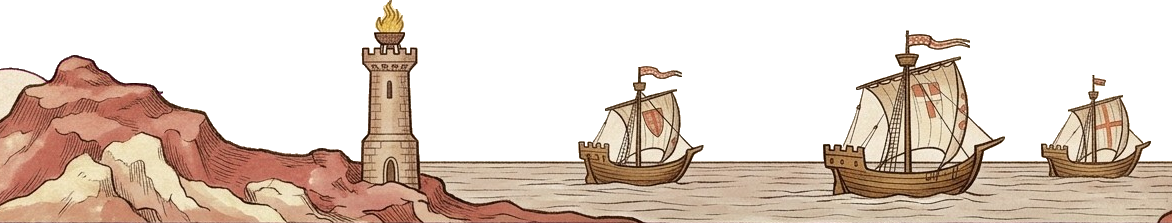
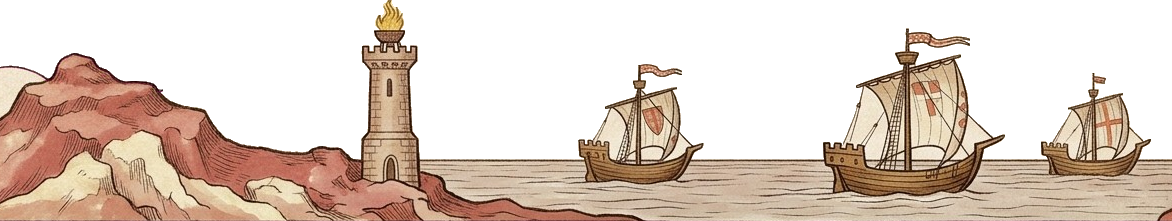
Festivals: no holes (sea under the far layer, deep valleys filled), cleaner tents, sunset glow; suns with faces in the day skies

diff --git a/scenes.js b/scenes.js
@@ -54,6 +54,10 @@ function cloud(file, w, y, dur, phase, extra){
   return Object.assign({ id:'cloud', file:file, frames:1, fps:1, w:w, x:0, y:y,
     plane:'sky', move:'walk', dur:dur, phase:phase }, extra || {});
 }
+/* a golden sun with a face, behind all layers (it is the same picture as the research star) */
+function sun(x, y, w){
+  return { id:'sun', file:'research/star.png', frames:1, fps:1, w:w, x:x, y:y, plane:'bg', move:'bob', dur:8 };
+}
 function star(x, y, w, dur, phase){
   return { id:'star', file:'research/star.png', frames:1, fps:1, w:w, x:x, y:y,
     plane:'sky', move:'twinkle', dur:dur, phase:phase };
@@ -96,7 +100,8 @@ const SCENES = {
       cloud('home/cloud-a.png', 190, 80, 170, .05), cloud('home/cloud-b.png', 130, 68, 210, .22),
       cloud('home/cloud-c.png', 170, 88, 160, .38), cloud('home/cloud-a.png', 120, 74, 240, .55),
       cloud('home/cloud-b.png', 150, 84, 190, .70), cloud('home/cloud-c.png', 110, 64, 260, .84),
-      cloud('home/cloud-a.png', 140, 91, 200, .95)
+      cloud('home/cloud-a.png', 140, 91, 200, .95),
+      sun(80, 69, 150)
     ],
     margins: [
       { id:'manicule', file:'home/manicule.png', frames:1, fps:1, w:120, side:'left', top:'4%', move:'bob',
@@ -126,7 +131,8 @@ const SCENES = {
         note:'Трое ежей-школяров на лавке: один пишет, второй спит, третий тянет лапу.' },
       cloud('experience/cloud-a.png', 160, 80, 170, .06), cloud('experience/cloud-b.png', 120, 90, 220, .25),
       cloud('experience/cloud-a.png', 110, 70, 250, .45), cloud('experience/cloud-b.png', 140, 84, 190, .66),
-      cloud('experience/cloud-a.png', 100, 92, 230, .88)
+      cloud('experience/cloud-a.png', 100, 92, 230, .88),
+      sun(70, 80, 130)
     ],
     margins: [
       { id:'inkpot', file:'experience/inkpot.png', frames:1, fps:1, w:110, side:'right', top:'12%', move:'bob',
@@ -192,7 +198,8 @@ const SCENES = {
         note:'Колокол в деревянной раме, стоит на земле.' },
       cloud('education/cloud-a.png', 170, 80, 170, .05), cloud('education/cloud-b.png', 120, 90, 220, .25),
       cloud('education/cloud-a.png', 120, 72, 250, .45), cloud('education/cloud-b.png', 150, 86, 190, .65),
-      cloud('education/cloud-a.png', 100, 93, 230, .87)
+      cloud('education/cloud-a.png', 100, 93, 230, .87),
+      sun(70, 77, 120)
     ],
     margins: [
       { id:'candle', file:'education/candle.png', frames:1, fps:1, w:100, side:'right', top:'8%', move:'bob',
@@ -244,7 +251,7 @@ const SCENES = {
       far:    'Маяк на мысу и паруса.',
       mid:    'Полосатые шатры и подмостки уличного театра.',
       ground: 'Охристая площадь.'
-    }, 'water', { far:18.75, mid:10.2, ground:0 }),
+    }, 'water', { far:18.75, mid:10.2, ground:0 }).map(function(l){ return l.kind === 'far' ? Object.assign(l, { under:'#cab8a0' }) : l; }),
     sprites: [
       { id:'bear-stilts', file:'festivals/bear-stilts.png', frames:3, fps:5, w:170, x:24, y:20, plane:'mid', move:'pace', dur:22, range:380,
         note:'Медведь на ходулях жонглирует яблоками: шаг → яблоки вверх → шаг.' },
@@ -255,7 +262,10 @@ const SCENES = {
       { id:'pennants',    file:'festivals/pennants.png',    frames:1, fps:1, w:300, x:72, y:74, plane:'sky', move:'sway', dur:7, flip:true,
         note:'Та же связка, справа, зеркально.' },
       cloud('home/cloud-a.png', 160, 84, 200, .1,  { opacity:.8 }), cloud('home/cloud-b.png', 120, 92, 250, .4, { opacity:.8 }),
-      cloud('home/cloud-c.png', 140, 78, 220, .7,  { opacity:.8 })
+      cloud('home/cloud-c.png', 140, 78, 220, .7,  { opacity:.8 }),
+      cloud('home/cloud-a.png', 110, 70, 260, .25, { opacity:.8 }), cloud('home/cloud-b.png', 150, 88, 190, .55, { opacity:.8 }),
+      cloud('home/cloud-c.png', 120, 66, 240, .9,  { opacity:.8 }),
+      sun(41, 46, 170)
     ],
     margins: [
       { id:'mask', file:'festivals/mask.png', frames:2, fps:1, w:110, side:'right', top:'20%', move:'bob',

diff --git a/style.css b/style.css
@@ -92,7 +92,7 @@ body[data-page="skillslang"]{
   --sky-pat:repeating-linear-gradient(45deg, rgba(110,60,5,.5) 0 1px, transparent 1px 26px), repeating-linear-gradient(-45deg, rgba(110,60,5,.5) 0 1px, transparent 1px 26px);
 }
 body[data-page="festivals"]{
-  --sky-glow:radial-gradient(ellipse 60% 50% at 78% 85%, rgba(255,222,150,.66), transparent 70%);
+  --sky-glow:radial-gradient(ellipse 55% 45% at 69% 58%, rgba(255,214,140,.78), transparent 70%);
   --sky-top:rgba(130,45,90,.32);
 }
 /* tones: the colour a chapter is known by (pennants, cards) */
@@ -332,6 +332,7 @@ html.tex-sky .scene--chapter::before{
   -webkit-tap-highlight-color:transparent;
   transform:translate3d(calc(var(--mx) * var(--d, 0) * -46px), calc(var(--sy) * var(--d, 0) * 1px), 0);
 }
+.sprite--bg{z-index:1; --d:.4;}   /* behind every layer: a sun that sets behind the hills */
 .sprite--sky{z-index:2; --d:.3;}
 .sprite--back{z-index:4; --d:.14;}
 .sprite--mid{z-index:6; --d:.08;}

diff --git a/app.js b/app.js
@@ -43,6 +43,7 @@ function mkLayer(L){
   if (L.css) { d.classList.add('is-css'); return d; }
   if (L.fit) d.classList.add('layer--fit');
   if (L.full) d.classList.add('layer--full');
+  if (L.under) d.style.boxShadow = '0 calc(var(--u, 12px) * 14) 0 ' + L.under;   /* closes the gap under a layer that has holes in the layer above */
   if (L.bottom != null) { d.classList.add('layer--b'); d.style.setProperty('--b', L.bottom); }
   d.dataset.label = L.file + ' · ' + L.size;
   loadArt(d, L.file, function(img){
